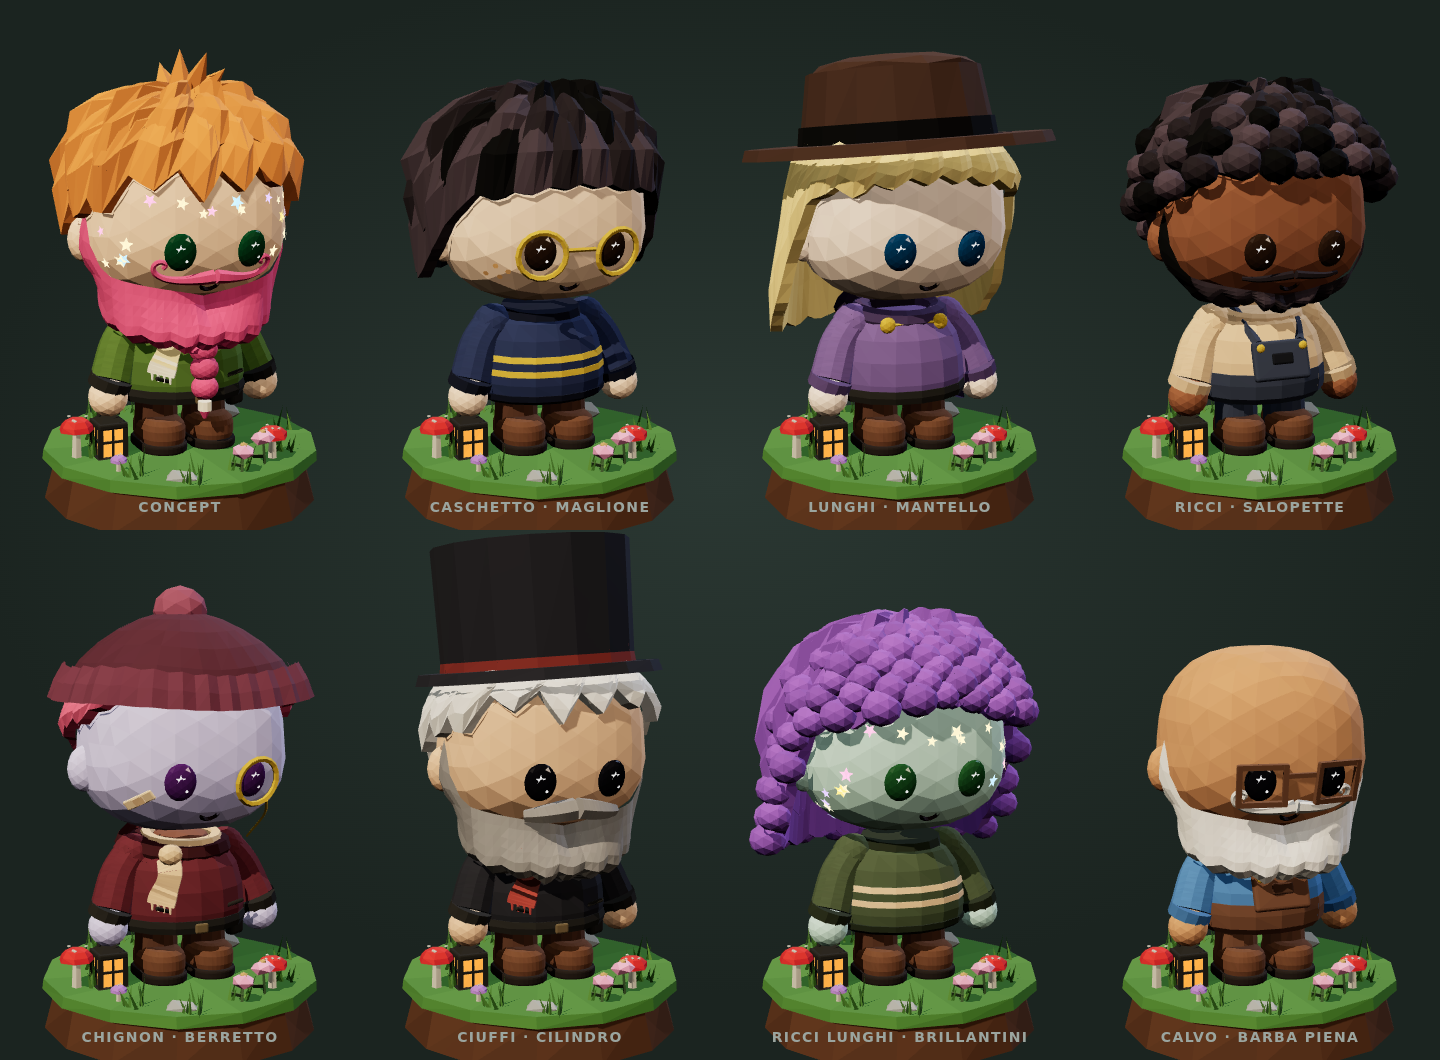
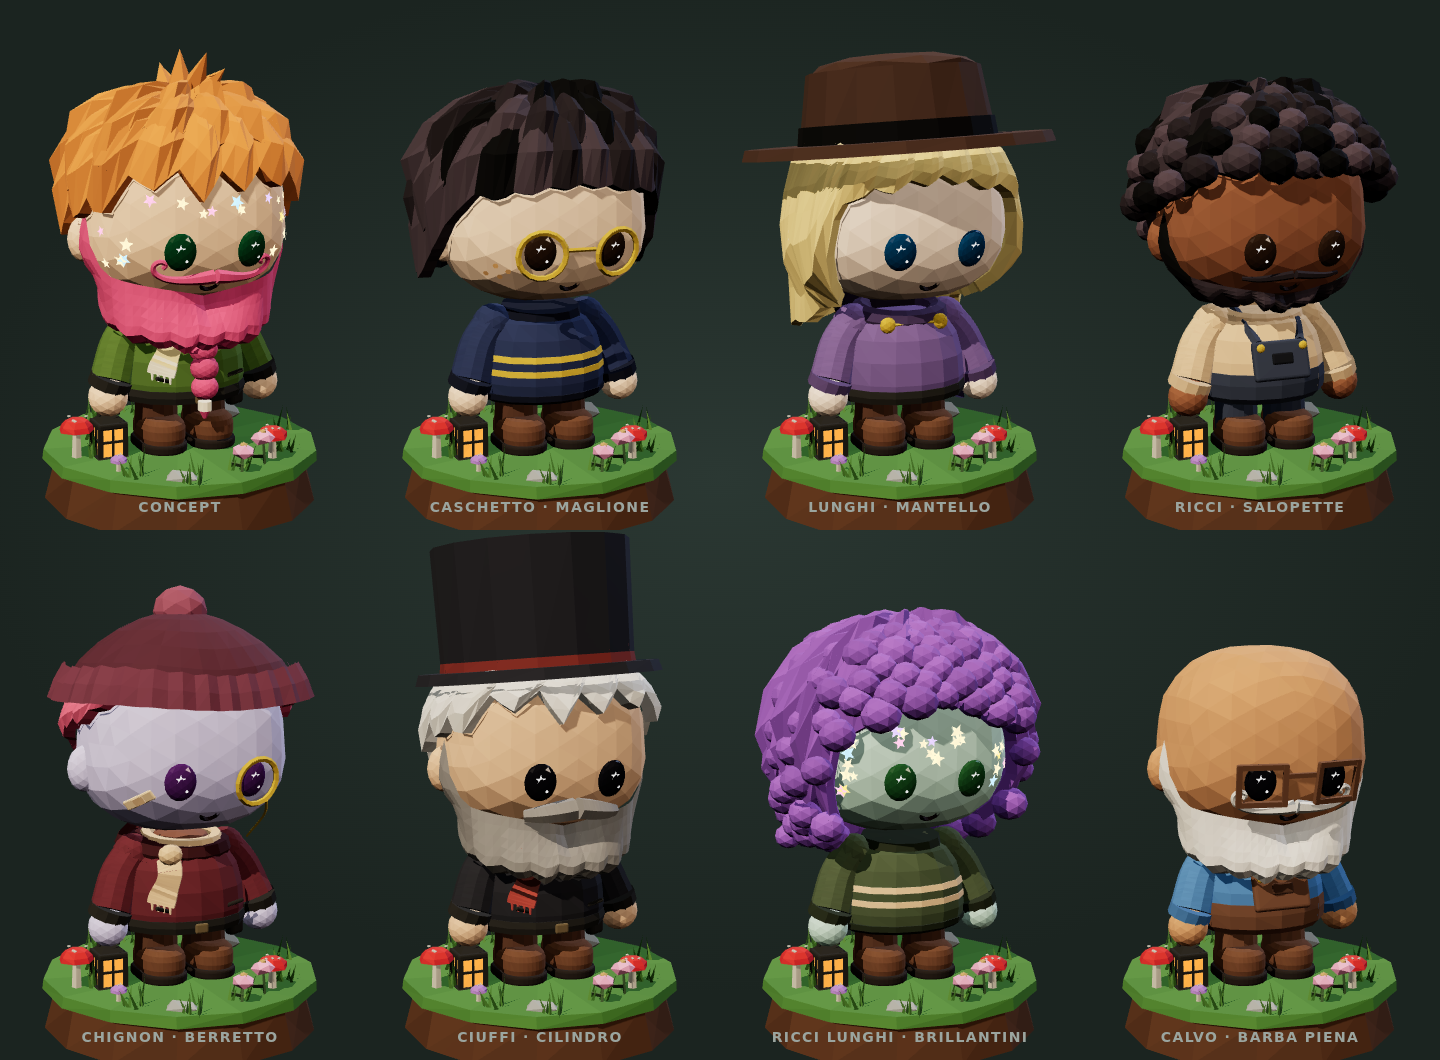
Style prototype v2: long hair frames the face on the sides
Long and long-curly cuts drop beside the eyes and hug the cheeks down
to the jaw, blending into the straight hanging curtain at the back.

Claude-Session: https://claude.ai/code/session_01U6u5RojYrwYjZd8sSRU7em

Changed region(s): [[0.5, 0.5604, 0.7188, 0.8406], [0.5312, 0.1557, 0.625, 0.3113], [0.6562, 0.1557, 0.7188, 0.3113]]

diff --git a/Prototype-3d/src/proto/custodeV2.ts b/Prototype-3d/src/proto/custodeV2.ts
@@ -228,9 +228,10 @@ const HAIR_TIPS: Record<Exclude<HairStyle, 'none'>, (a: number) => number> = {
   spiky: (a) => (a < 90 ? lerp(20, 0, smooth(30, 90, a)) : lerp(0, -32, smooth(90, 160, a))), // ai lati fin sopra l'orecchio, dietro alla nuca
   tufts: (a) => (a < 90 ? lerp(24, 6, smooth(30, 90, a)) : lerp(6, -26, smooth(90, 160, a))),
   bob: (a) => (a < 50 ? lerp(14, 8, smooth(0, 50, a)) : lerp(8, -42, smooth(50, 105, a))), // caschetto: frangia dritta, copre le orecchie
-  long: (a) => (a < 60 ? lerp(18, 10, smooth(0, 60, a)) : lerp(10, -78, smooth(60, 120, a))), // fin sulle spalle
+  // lunghi: ai lati scendono subito lungo la guancia (accanto all'occhio), dietro fin sulle spalle
+  long: (a) => (a < 45 ? lerp(18, 10, smooth(0, 45, a)) : a < 72 ? lerp(10, -50, smooth(45, 72, a)) : lerp(-50, -78, smooth(72, 130, a))),
   curly: (a) => (a < 90 ? lerp(22, 4, smooth(30, 90, a)) : lerp(4, -30, smooth(90, 160, a))),
-  longcurly: (a) => (a < 60 ? lerp(22, 10, smooth(0, 60, a)) : lerp(10, -70, smooth(60, 120, a))),
+  longcurly: (a) => (a < 45 ? lerp(22, 10, smooth(0, 45, a)) : a < 72 ? lerp(10, -48, smooth(45, 72, a)) : lerp(-48, -70, smooth(72, 130, a))),
   bun: (a) => (a < 90 ? lerp(30, 8, smooth(30, 90, a)) : lerp(8, -22, smooth(90, 160, a))), // raccolti: fronte scoperta
 };
 let HAIR_TIP = HAIR_TIPS.spiky;
@@ -244,7 +245,16 @@ function hairPoint(th: number, phD: number) {
   const { p, n } = headAt(th, 0);
   const h = new THREE.Vector3(n.x, 0, n.z).normalize();
   const dy = -phD * DEG * R.y * 1.05;
-  return { p: p.addScaledVector(h, 0.12 * dy).add(new THREE.Vector3(0, -dy, 0)), n: h };
+  const hang = { p: p.addScaledVector(h, 0.12 * dy).add(new THREE.Vector3(0, -dy, 0)), n: h };
+  // capelli lunghi: ai lati restano aderenti alla guancia fino alla mandibola,
+  // poi scendono dritti; dietro pendono come una tenda
+  const b = L.hair === 'long' || L.hair === 'longcurly' ? smooth(95, 145, absDeg(th)) : 1;
+  if (b >= 1) return hang;
+  const JAW = -55;
+  const s = headAt(th, Math.max(phD, JAW) * DEG);
+  const drop = Math.max(0, JAW - phD) * DEG * R.y * 1.05;
+  const hug = { p: s.p.add(new THREE.Vector3(0, -drop, 0)), n: drop > 0 ? h : s.n };
+  return { p: hug.p.lerp(hang.p, b), n: hug.n.clone().lerp(hang.n, b).normalize() };
 }
 const hairTip = (th: number) => HAIR_TIP(absDeg(th));
 /** Bordo superiore della barba (φ in gradi): sotto la bocca davanti, sale lungo la mandibola fino all'orecchio. */

diff --git a/Prototype-3d/docs/audit-stile-custode-v2.md b/Prototype-3d/docs/audit-stile-custode-v2.md
@@ -122,7 +122,7 @@ Il prototipo ora accetta un `CustodeLook` (`buildCustodeV2(look)`): stesso corpo
 
 | Opzione | Come è fatta in v2 |
 | --- | --- |
-| Capelli | Tutti i tagli sono lo stesso casco a ciocche; cambia la forma dell'orlo per taglio. Spettinati e ciuffi hanno anche le punte in cima. Caschetto, lunghi e ricci lunghi sotto l'equatore della testa scendono dritti come una tenda invece di rientrare sulla nuca. Ricci e ricci lunghi sono il casco più riccioli a file regolari. Chignon è il casco più la crocchia con l'elastico del colore d'accento. Calvo non ha capelli. |
+| Capelli | Tutti i tagli sono lo stesso casco a ciocche; cambia la forma dell'orlo per taglio. Spettinati e ciuffi hanno anche le punte in cima. Caschetto, lunghi e ricci lunghi, sotto l'equatore della testa, dietro scendono dritti come una tenda invece di rientrare sulla nuca. Nei lunghi e nei ricci lunghi, ai lati scendono subito accanto all'occhio e restano aderenti alla guancia fino alla mandibola, incorniciando il viso. Ricci e ricci lunghi sono il casco più riccioli a file regolari. Chignon è il casco più la crocchia con l'elastico del colore d'accento. Calvo non ha capelli. |
 | Cappelli | Tesa larga, cilindro e berretto con risvolto e pompon. Sotto un cappello resta solo lo strato basso dei capelli, che finisce alla tesa; la cupola si allarga sul cranio, quindi niente capelli che bucano. |
 | Barba | Corta: stessa barba "a ciocche" ma aderente al viso e appena sotto la mandibola. Piena: quella del concept senza treccia. Treccia: quella del concept. |
 | Baffi | Sottili, folti e a manubrio (quelli del concept). |
